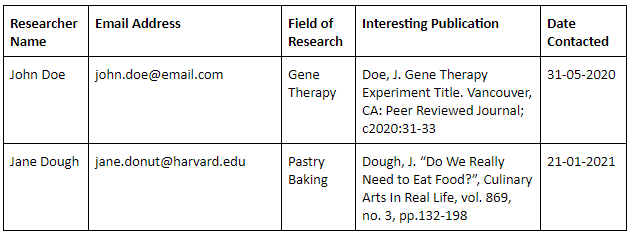
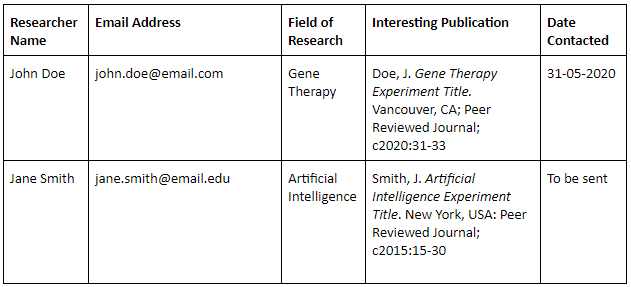
contact table changes

Changed region(s): [[0.0, 0.0, 0.9937, 1.0]]

diff --git a/blog/p/A_Step_By_Step_Guide_to_Getting_a_Research_Position.html b/blog/p/A_Step_By_Step_Guide_to_Getting_a_Research_Position.html
@@ -102,8 +102,8 @@
             <li><b>Date contacted</b> – this is important so you know who you contacted and who you have yet to contact. </li>
           </ul>
           <div style="margin: auto; text-align: center;">
-            <img src="../i/contacttable.PNG" style="width: 80vw; max-width: 632px; margin-left: auto; margin-right:auto;" alt="Example of Contact List"></img>
-            <p style="font-size: .6rem; width: 80vw; max-width: 632px; margin: auto;">The first two of many entries in a sample contact list</p>
+            <img src="../i/contacttable.PNG" style="width: 80vw; max-width: 631px; margin-left: auto; margin-right:auto;" alt="Example of Contact List"></img>
+            <p style="font-size: .6rem; width: 80vw; max-width: 632px; margin: auto;">An Example of what your excel spreadsheet should look like</p>
           </div>
           <p>
             I’m sure many of you are wondering “how many researchers should I be contacting?” While there is no set number for how many emails you should send out,
